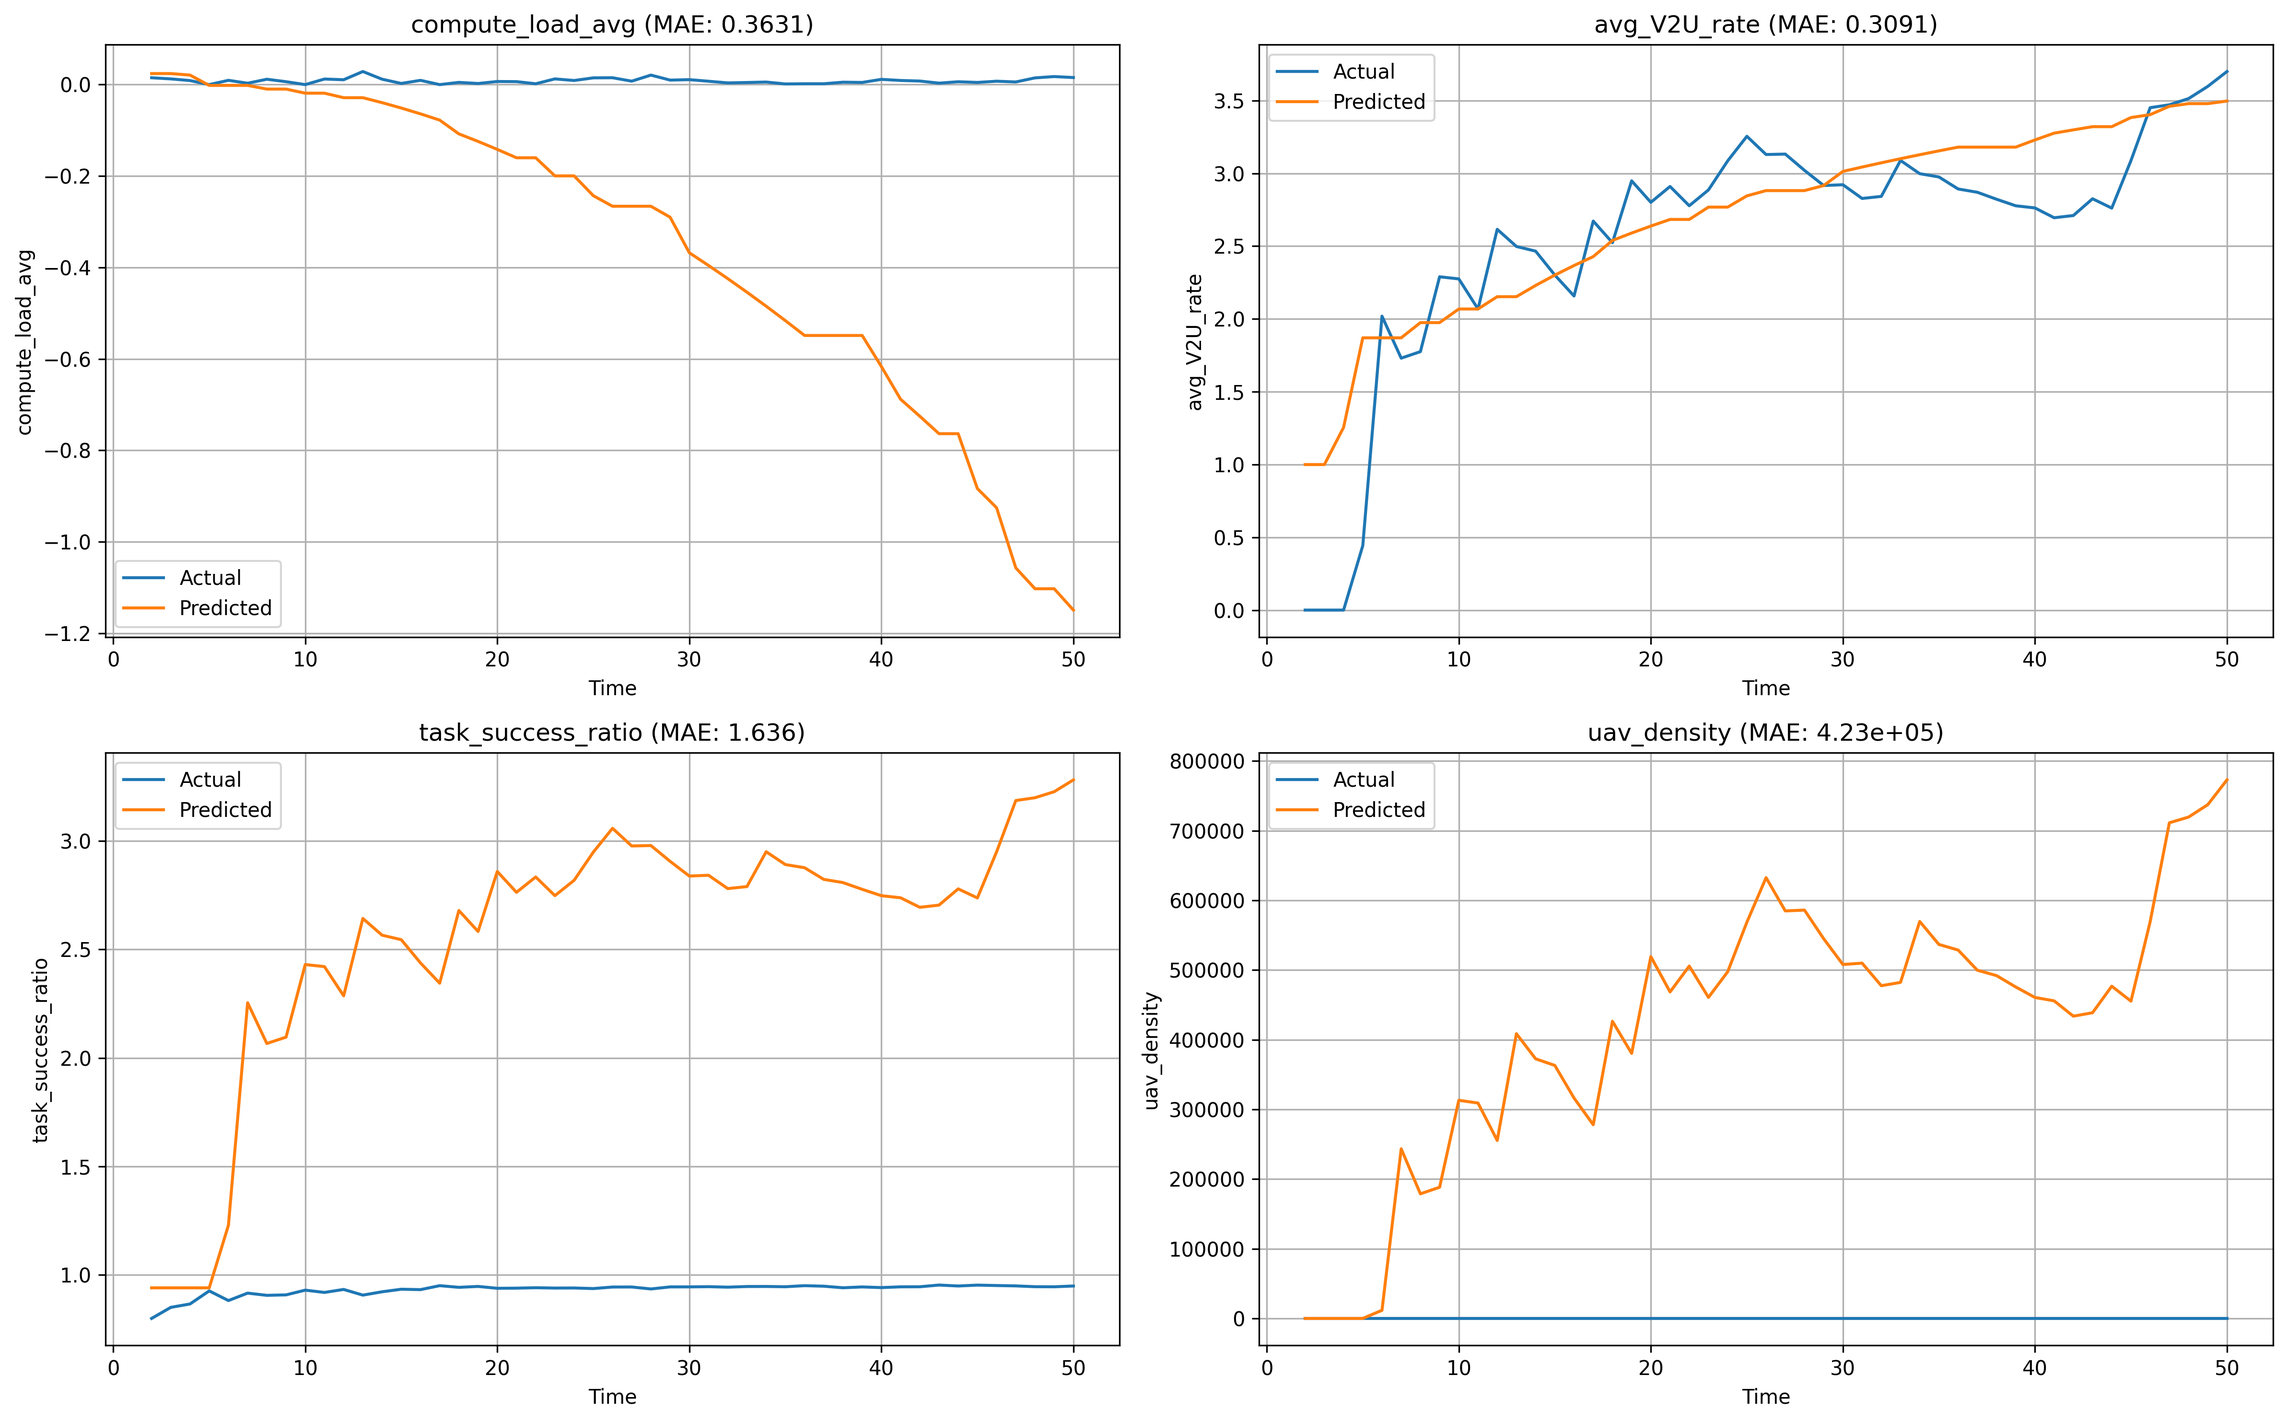
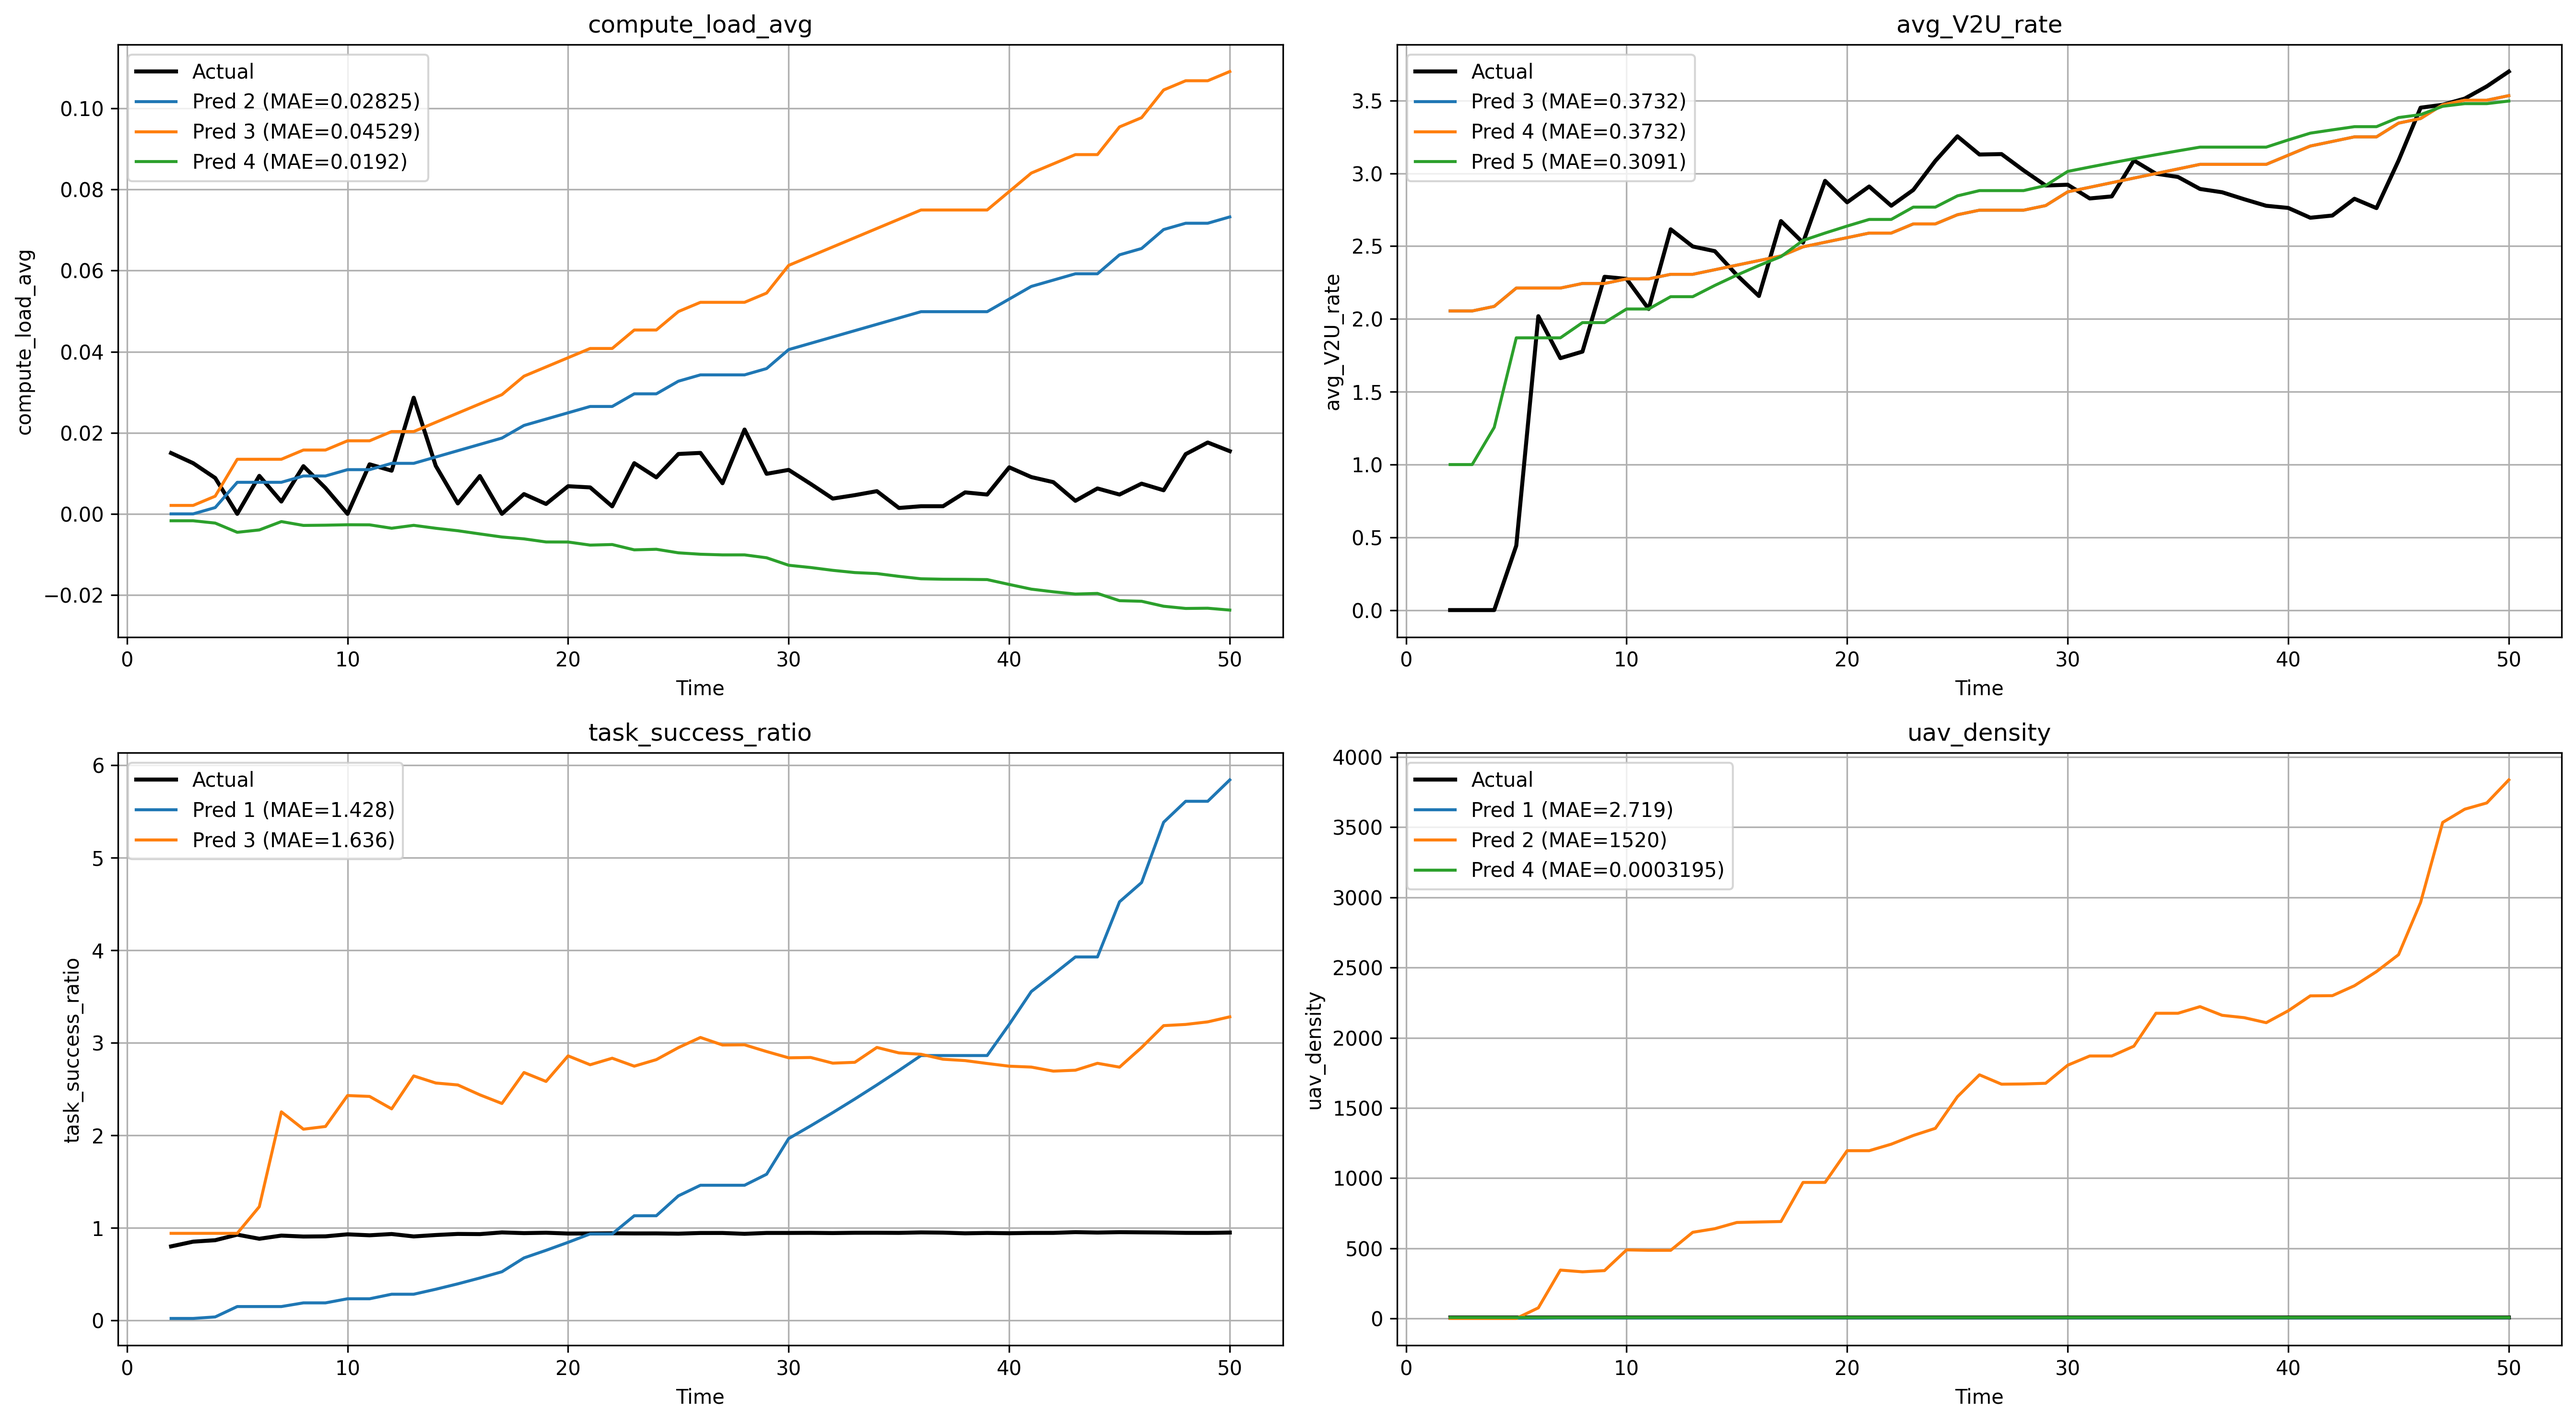
对比所有公式，图里排除了MAE最大的两个公式

diff --git a/AirFogSim/examples/data_collector.py b/AirFogSim/examples/data_collector.py
@@ -318,98 +318,106 @@ class DataCollector:
     
     def predict_and_compare_metrics(self, formula_json_path, output_plot_path=None, output_error_path=None):
         """
-        使用公式预测下一时隙的指标，并与实际数据对比，输出对比曲线和误差文件
+        使用json文件中所有公式预测下一时隙的指标，并与实际数据对比，输出对比曲线和误差文件。
+        绘图时每类排除MAE最大的两个公式。
         """
         with open(formula_json_path, 'r') as f:
             formula_data = json.load(f)
         final_results = formula_data['final_results']
 
-        # 公式顺序与指标映射
         metric_names = [
             'compute_load_avg',   # 平均计算负载
             'avg_V2U_rate',       # 平均V2U速率
             'task_success_ratio', # 任务成功率
             'uav_density'         # UAV密度
         ]
-        # 选用每类MAE最小的公式
-        best_formulas = []
-        for formulas in final_results:
-            best = min([f for f in formulas if f['mae'] is not None], key=lambda x: x['mae'])
-            best_formulas.append(best)
 
         # 构造输入变量序列
-        # x1: vehicle_density, x2: uav_density, x3: avg_V2U_rate, x4: vehicle_count
         x1 = self.data['vehicle_density']
         x2 = self.data['uav_density']
         x3 = self.data['avg_V2U_rate']
         x4 = self.data['vehicle_count']
-        # 统一长度
         min_len = min(len(x1), len(x2), len(x3), len(x4))
         x1, x2, x3, x4 = x1[:min_len], x2[:min_len], x3[:min_len], x4[:min_len]
         time = self.data['time'][:min_len]
 
-        # 预测与实际对比
         import numpy as np
         import matplotlib.pyplot as plt
 
-        pred_results = {}
-        errors = {}
+        all_pred_results = []
+        all_errors = []
 
+        fig, axes = plt.subplots(2, 2, figsize=(18, 10))
         for idx, metric in enumerate(metric_names):
-            formula = best_formulas[idx]
-            eq = formula['equation']
-            params = formula['fitted_params']
-            # 构造预测值
-            preds = []
-            for i in range(min_len-1):  # 预测下一时隙
-                # 构造变量
-                local_vars = {
-                    'x1': x1[i],
-                    'x2': x2[i],
-                    'x3': x3[i],
-                    'x4': x4[i],
-                    'c': params,
-                    'np': np,
-                    'log': np.log
-                }
-                try:
-                    pred = eval(eq, {}, local_vars)
-                except Exception:
-                    pred = np.nan
-                preds.append(pred)
-            # 对齐实际值（预测t+1, 对比实际t+1）
+            formulas = final_results[idx]
             actual = self.data[metric][1:min_len]
-            pred_results[metric] = {
-                'pred': preds,
-                'actual': actual,
-                'formula': eq,
-                'mae_formula': formula['mae']
-            }
-            # 计算平均误差
-            arr_pred = np.array(preds)
-            arr_actual = np.array(actual)
-            mask = ~np.isnan(arr_pred)
-            if np.sum(mask) > 0:
-                mae = np.mean(np.abs(arr_pred[mask] - arr_actual[mask]))
-            else:
-                mae = None
-            errors[metric] = {
-                'mae': mae,
-                'formula_mae': formula['mae'],
-                'formula': eq
-            }
-
-        # 绘图
-        fig, axes = plt.subplots(2, 2, figsize=(16, 10))
-        for idx, metric in enumerate(metric_names):
             ax = axes[idx//2, idx%2]
-            ax.plot(time[1:min_len], pred_results[metric]['actual'], label='Actual')
-            ax.plot(time[1:min_len], pred_results[metric]['pred'], label='Predicted')
-            ax.set_title(f"{metric} (MAE: {errors[metric]['mae']:.4g})")
+            ax.plot(time[1:min_len], actual, label='Actual', color='black', linewidth=2)
+            metric_pred_results = []
+            metric_errors = []
+            # 先计算所有MAE
+            mae_list = []
+            preds_list = []
+            for fidx, formula in enumerate(formulas):
+                eq = formula['equation']
+                params = formula['fitted_params']
+                preds = []
+                for i in range(min_len-1):
+                    local_vars = {
+                        'x1': x1[i],
+                        'x2': x2[i],
+                        'x3': x3[i],
+                        'x4': x4[i],
+                        'c': params,
+                        'np': np,
+                        'log': np.log
+                    }
+                    try:
+                        pred = eval(eq, {}, local_vars)
+                    except Exception:
+                        pred = np.nan
+                    preds.append(pred)
+                arr_pred = np.array(preds)
+                arr_actual = np.array(actual)
+                mask = ~np.isnan(arr_pred)
+                if np.sum(mask) > 0:
+                    mae = np.mean(np.abs(arr_pred[mask] - arr_actual[mask]))
+                else:
+                    mae = float('inf')
+                mae_list.append((mae, fidx))
+                preds_list.append((preds, formula, mae, params))
+                metric_pred_results.append({
+                    'pred': preds,
+                    'actual': list(actual),
+                    'formula': eq,
+                    'mae_formula': formula['mae'],
+                    'mae': mae,
+                    'params': params
+                })
+                metric_errors.append({
+                    'metric': metric,
+                    'formula_idx': fidx+1,
+                    'mae': mae,
+                    'formula_mae': formula['mae'],
+                    'formula': eq,
+                    'params': params
+                })
+            # 排除MAE最大的两个公式
+            mae_list_sorted = sorted(mae_list, key=lambda x: (x[0] if x[0] is not None else float('inf')))
+            exclude_idx = set(idx for _, idx in mae_list_sorted[-2:])
+            for i, (preds, formula, mae, params) in enumerate(preds_list):
+                if i in exclude_idx:
+                    continue
+                arr_pred = np.array(preds)
+                ax.plot(time[1:min_len], arr_pred, label=f'Pred {i+1} (MAE={mae:.4g})')
+            ax.set_title(f"{metric}")
             ax.set_xlabel('Time')
             ax.set_ylabel(metric)
             ax.legend()
             ax.grid(True)
+            all_pred_results.append(metric_pred_results)
+            all_errors.extend(metric_errors)
+
         plt.tight_layout()
         if output_plot_path:
             plt.savefig(output_plot_path, dpi=300, bbox_inches='tight')
@@ -420,15 +428,15 @@ class DataCollector:
         if output_error_path:
             if output_error_path.endswith('.json'):
                 with open(output_error_path, 'w') as f:
-                    json.dump(errors, f, indent=2)
+                    json.dump(all_errors, f, indent=2)
             else:
                 import csv
                 with open(output_error_path, 'w', newline='') as f:
                     writer = csv.writer(f)
-                    writer.writerow(['metric', 'mae', 'formula_mae', 'formula'])
-                    for metric in metric_names:
+                    writer.writerow(['metric', 'formula_idx', 'mae', 'formula_mae', 'formula', 'params'])
+                    for err in all_errors:
                         writer.writerow([
-                            metric, errors[metric]['mae'], errors[metric]['formula_mae'], errors[metric]['formula']
+                            err['metric'], err['formula_idx'], err['mae'], err['formula_mae'], err['formula'], err['params']
                         ])
-        return errors
+        return all_errors
 
